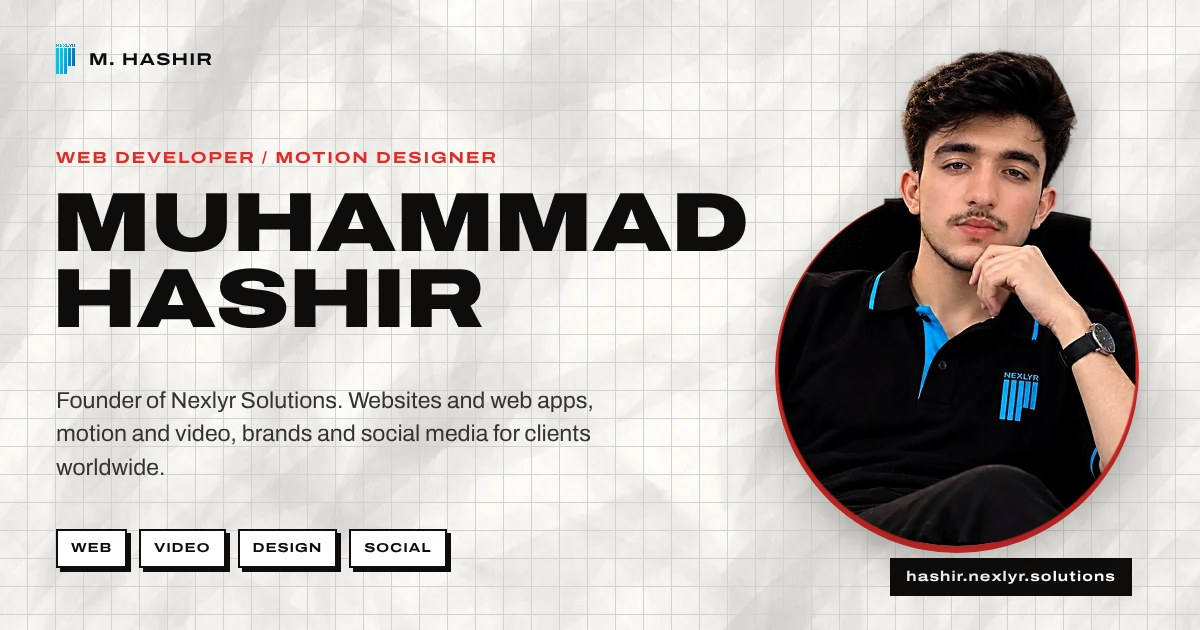
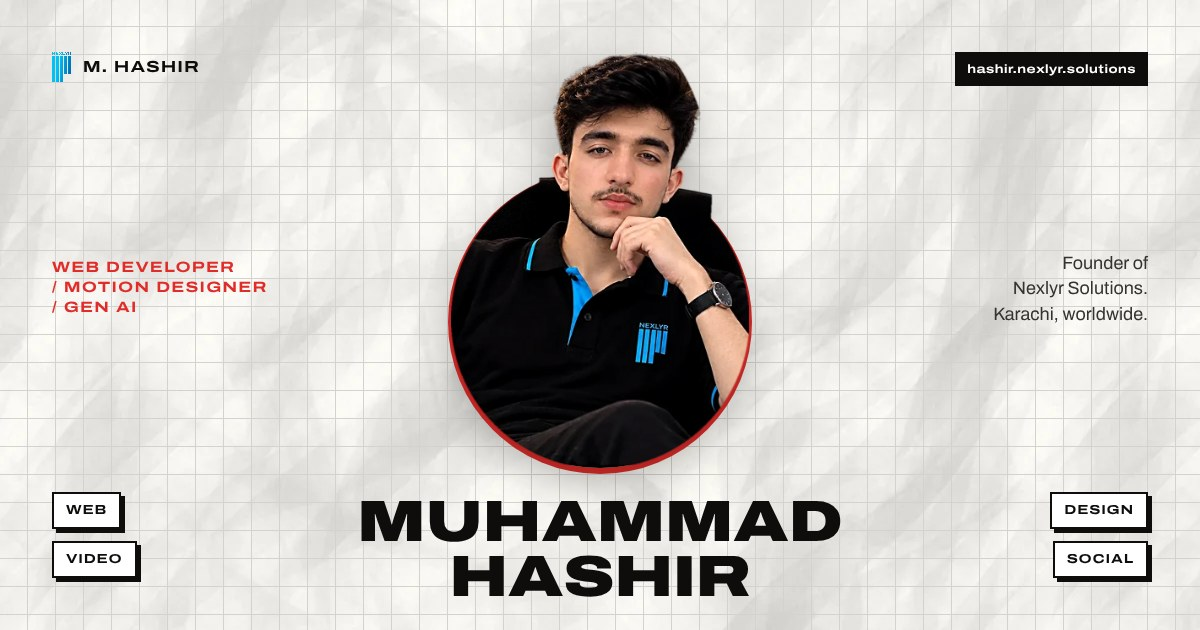
Social preview card: crop-safe layout so square thumbnails (WhatsApp, iMessage, Instagram) still show face and name
Claude-Session: https://claude.ai/code/session_01APmvq1AYg7rXyuZEsQceUZ

diff --git a/.design/og-card.html b/.design/og-card.html
@@ -1,31 +1,39 @@
 <!doctype html><html><head><meta charset="utf-8"><style>
+/* Social preview card, 1200x630. Crop-safe: face + name live in the centre 630x630 square,
+   so WhatsApp / iMessage / Instagram square thumbnails still show the important part. */
 @font-face{font-family:W;src:url(../font-archivo-wide-900.woff2);font-weight:900}
 @font-face{font-family:W;src:url(../font-archivo-wide-700.woff2);font-weight:700}
 @font-face{font-family:T;src:url(../font-archivo-400.woff2);font-weight:400}
-@font-face{font-family:T;src:url(../font-archivo-body-600.woff2);font-weight:600}
 *{margin:0;box-sizing:border-box}
 :root{--ink:oklch(16% .004 90);--paper:oklch(95.5% .004 90);--grid:oklch(86.5% .004 90);--red:oklch(59% .215 27.5)}
 body{width:1200px;height:630px;overflow:hidden;position:relative;color:var(--ink);font-family:T;
  background-color:var(--paper);background-image:linear-gradient(90deg,var(--grid) 1px,transparent 1px),linear-gradient(0deg,var(--grid) 1px,transparent 1px),url(../paper-light.webp);
  background-size:28px 28px,28px 28px,1024px 1024px;background-position:-1px -1px,-1px -1px,0 0}
-.top{position:absolute;left:56px;right:56px;top:44px;display:flex;justify-content:space-between;align-items:center;font:700 17px/1 W;letter-spacing:.06em;text-transform:uppercase}
-.top span{display:flex;align-items:center;gap:14px} .top img{height:30px}
-.url{position:absolute;right:68px;bottom:34px;font-style:normal;font:700 14px/1 W;letter-spacing:.08em;padding:12px 16px;background:var(--ink);color:#fff}
-.lbl{position:absolute;left:56px;top:150px;font:700 16px/1 W;letter-spacing:.1em;text-transform:uppercase;color:var(--red)}
-h1{position:absolute;left:52px;top:186px;font:900 84px/.9 W;text-transform:uppercase;letter-spacing:-.01em}
-p{position:absolute;left:56px;top:384px;width:560px;font:400 23px/1.45 T;color:oklch(32% .004 90)}
-.tags{position:absolute;left:56px;bottom:62px;display:flex;gap:12px}
-.tags b{font:700 13px/1 W;letter-spacing:.06em;text-transform:uppercase;padding:13px 15px;background:#fff;box-shadow:inset 0 0 0 2px var(--ink),4px 4px 0 var(--ink)}
-.o{position:absolute;left:782px;top:196px;width:350px;height:350px}
-.o i{position:absolute;inset:0;border-radius:50%;background:radial-gradient(circle at 38% 30%,oklch(30% .004 90),oklch(10% .004 90) 72%);box-shadow:0 0 0 7px var(--red)}
-.o img{position:absolute;left:50%;bottom:0;width:357px;translate:-50% 0;filter:drop-shadow(0 18px 24px oklch(0% 0 0 / .3))}
-.sign{position:absolute;left:700px;bottom:26px;width:250px;transform:rotate(-6deg)}
-.sign svg{width:100%;height:auto;fill:var(--ink)}
+.o{position:absolute;left:50%;top:176px;width:292px;height:292px;translate:-50% 0}
+.o i{position:absolute;inset:0;border-radius:50%;background:radial-gradient(circle at 38% 30%,oklch(30% .004 90),oklch(10% .004 90) 72%);box-shadow:0 0 0 6px var(--red)}
+.o img{position:absolute;left:50%;bottom:0;width:298px;translate:-50% 0;filter:drop-shadow(0 16px 22px oklch(0% 0 0 / .28))}
+h1{position:absolute;left:0;right:0;top:494px;text-align:center;font:900 58px/.95 W;text-transform:uppercase}
+.side{position:absolute;top:52px;bottom:52px;width:220px;display:flex;flex-direction:column;justify-content:space-between}
+.l{left:52px}.r{right:52px;align-items:flex-end;text-align:right}
+.brand{display:flex;align-items:center;gap:12px;font:700 16px/1 W;letter-spacing:.06em;text-transform:uppercase}
+.brand img{height:30px}
+.lbl{font:700 15px/1.35 W;letter-spacing:.08em;text-transform:uppercase;color:var(--red)}
+.tags{display:grid;gap:12px;justify-items:start}
+.r .tags{justify-items:end}
+.tags b{font:700 13px/1 W;letter-spacing:.06em;text-transform:uppercase;padding:12px 14px;background:#fff;box-shadow:inset 0 0 0 2px var(--ink),4px 4px 0 var(--ink)}
+.url{font:700 12px/1 W;letter-spacing:.04em;padding:11px 12px;background:var(--ink);color:#fff}
+.note{font:400 18px/1.4 T;color:oklch(32% .004 90)}
 </style></head><body>
-<div class="top"><span><img src="../nexlyr-logo.svg" alt="">M. Hashir</span></div><em class="url">hashir.nexlyr.solutions</em>
-<div class="lbl">Web developer / Motion designer</div>
-<h1>Muhammad<br>Hashir</h1>
-<p>Founder of Nexlyr Solutions. Websites and web apps, motion and video, brands and social media for clients worldwide.</p>
-<div class="tags"><b>Web</b><b>Video</b><b>Design</b><b>Social</b></div>
+<div class="side l">
+  <div class="brand"><img src="../nexlyr-logo.svg" alt="">M. Hashir</div>
+  <div class="lbl">Web developer<br>/ Motion designer<br>/ Gen AI</div>
+  <div class="tags"><b>Web</b><b>Video</b></div>
+</div>
+<div class="side r">
+  <span class="url">hashir.nexlyr.solutions</span>
+  <p class="note">Founder of<br>Nexlyr Solutions.<br>Karachi, worldwide.</p>
+  <div class="tags"><b>Design</b><b>Social</b></div>
+</div>
 <div class="o"><i></i><img src="../hashir-pop.webp" alt=""></div>
+<h1>Muhammad<br>Hashir</h1>
 </body></html>
